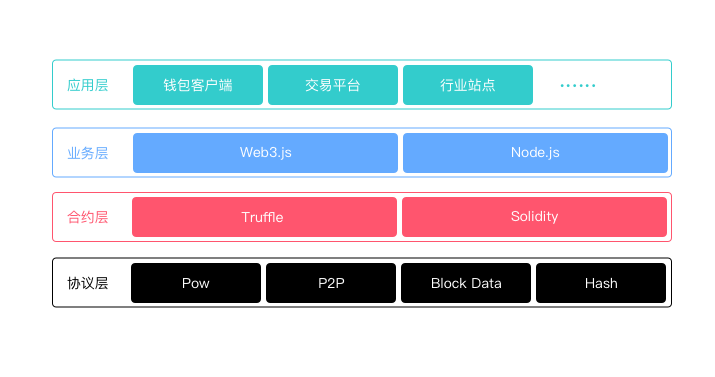
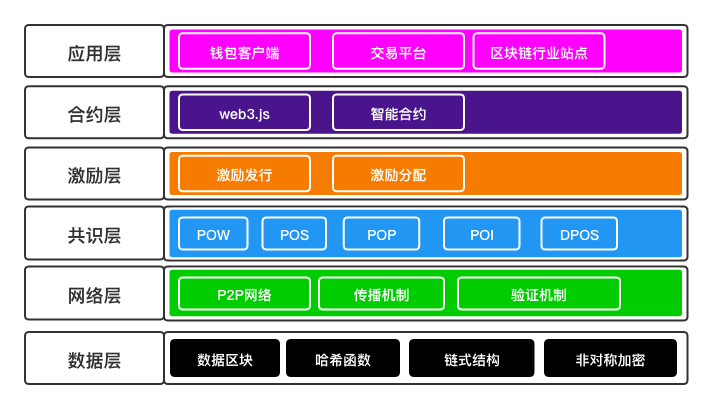
updata blockchain_framework

diff --git a/profiles/blockchain_base.md b/profiles/blockchain_base.md
@@ -56,11 +56,3 @@
 
 ### 公开透明
 * 区块链系统是开放的，除了对交易各方的私有信息进行加密，区块链数据对所有人公开，任何人都能通过公开的接口，对区块链数据进行查询，并能开发相关应用，整个系统的信息高度透明。
-
-## 区块链的技术架构
-![](../images/blockChain/blockchain-structure.png)
-
-* 应用层：各种数字钱包、交易网站或者各个不同行业的基于区块链搭建的网站或者 App；
-* 业务层：业务层主要还是 Web3 对智能合约的操作，当然也有各个不通应用自己的业务功能模块；
-* 合同层：合同层主要是通过 Solidity 对各个合同的实现；
-* 协议层：主要是通过共识机制、P2P 网络、区块链存储和密码学相关技术，来对区块链底层的实现；

diff --git a/profiles/blockchain_framework.md b/profiles/blockchain_framework.md
@@ -1,5 +1,6 @@
 # 区块链的技术架构
 ## 区块链的六层结构
+![](../images/blockChain/blockchain-structure.png)
 
 ### 数据层
 * 主要实现数据的存储，账户和交易的实现与安全
